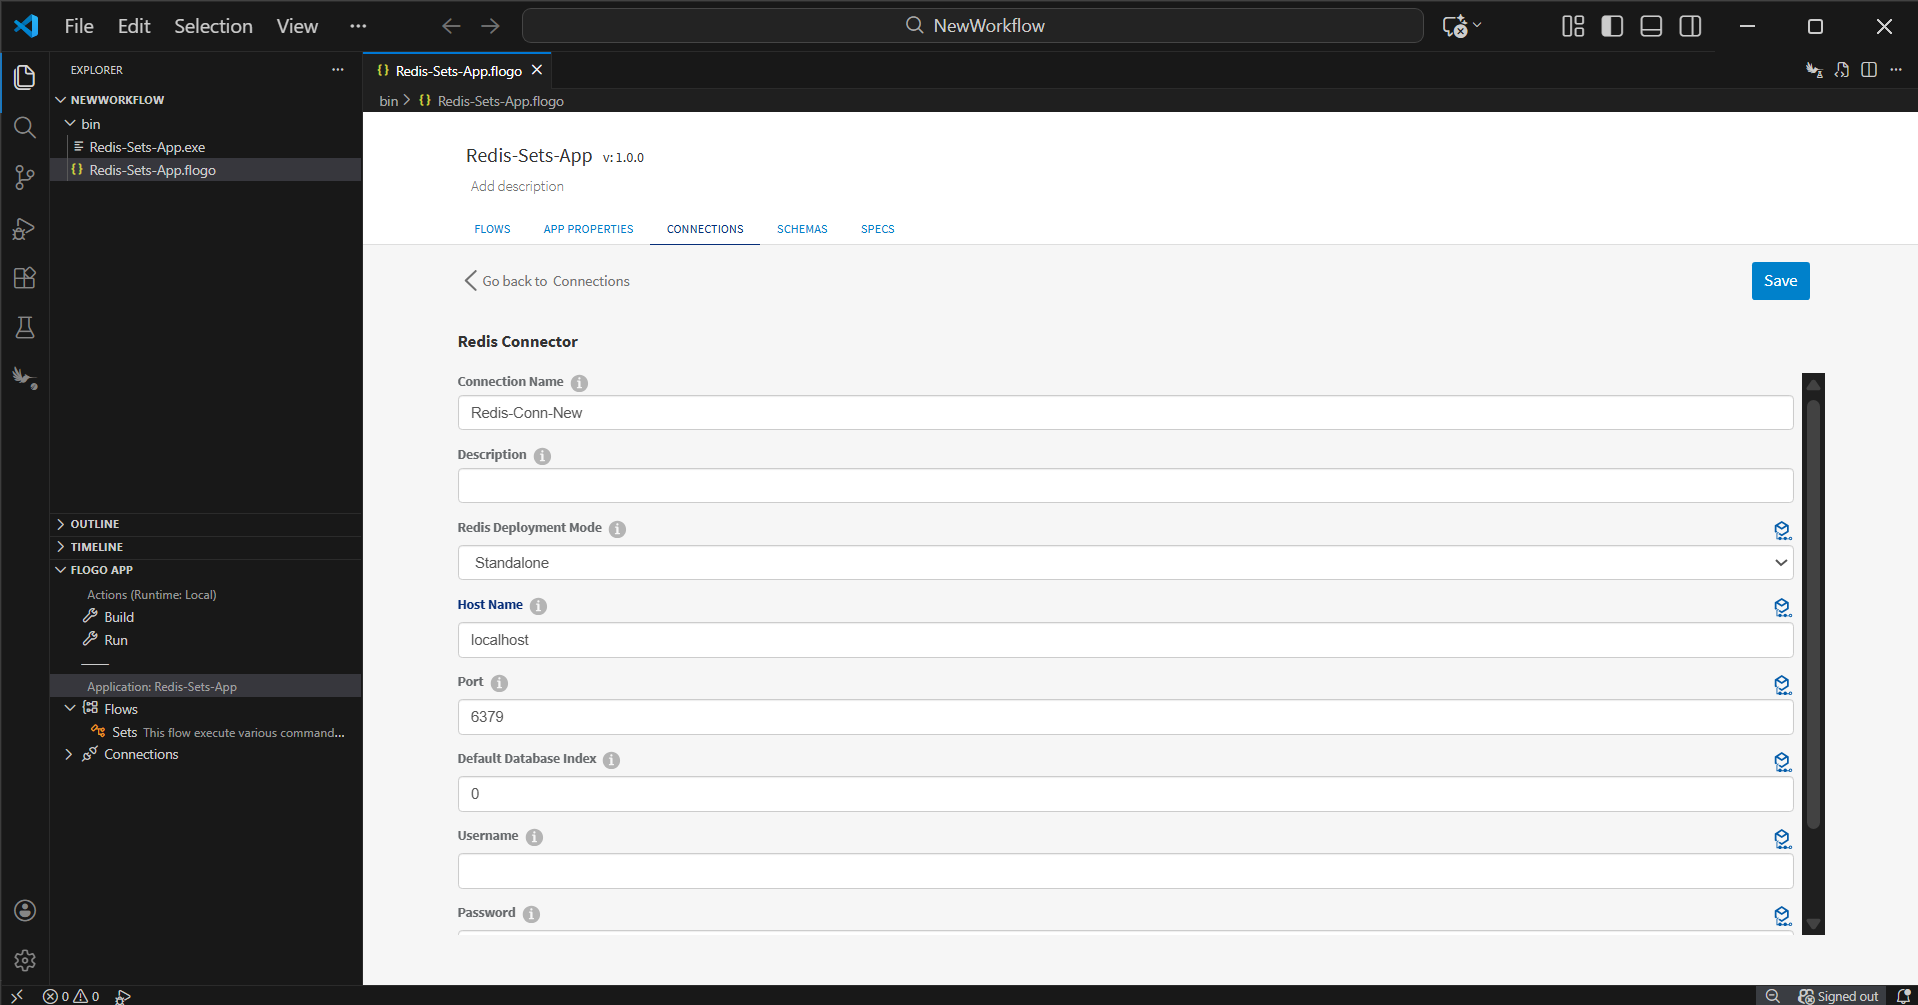
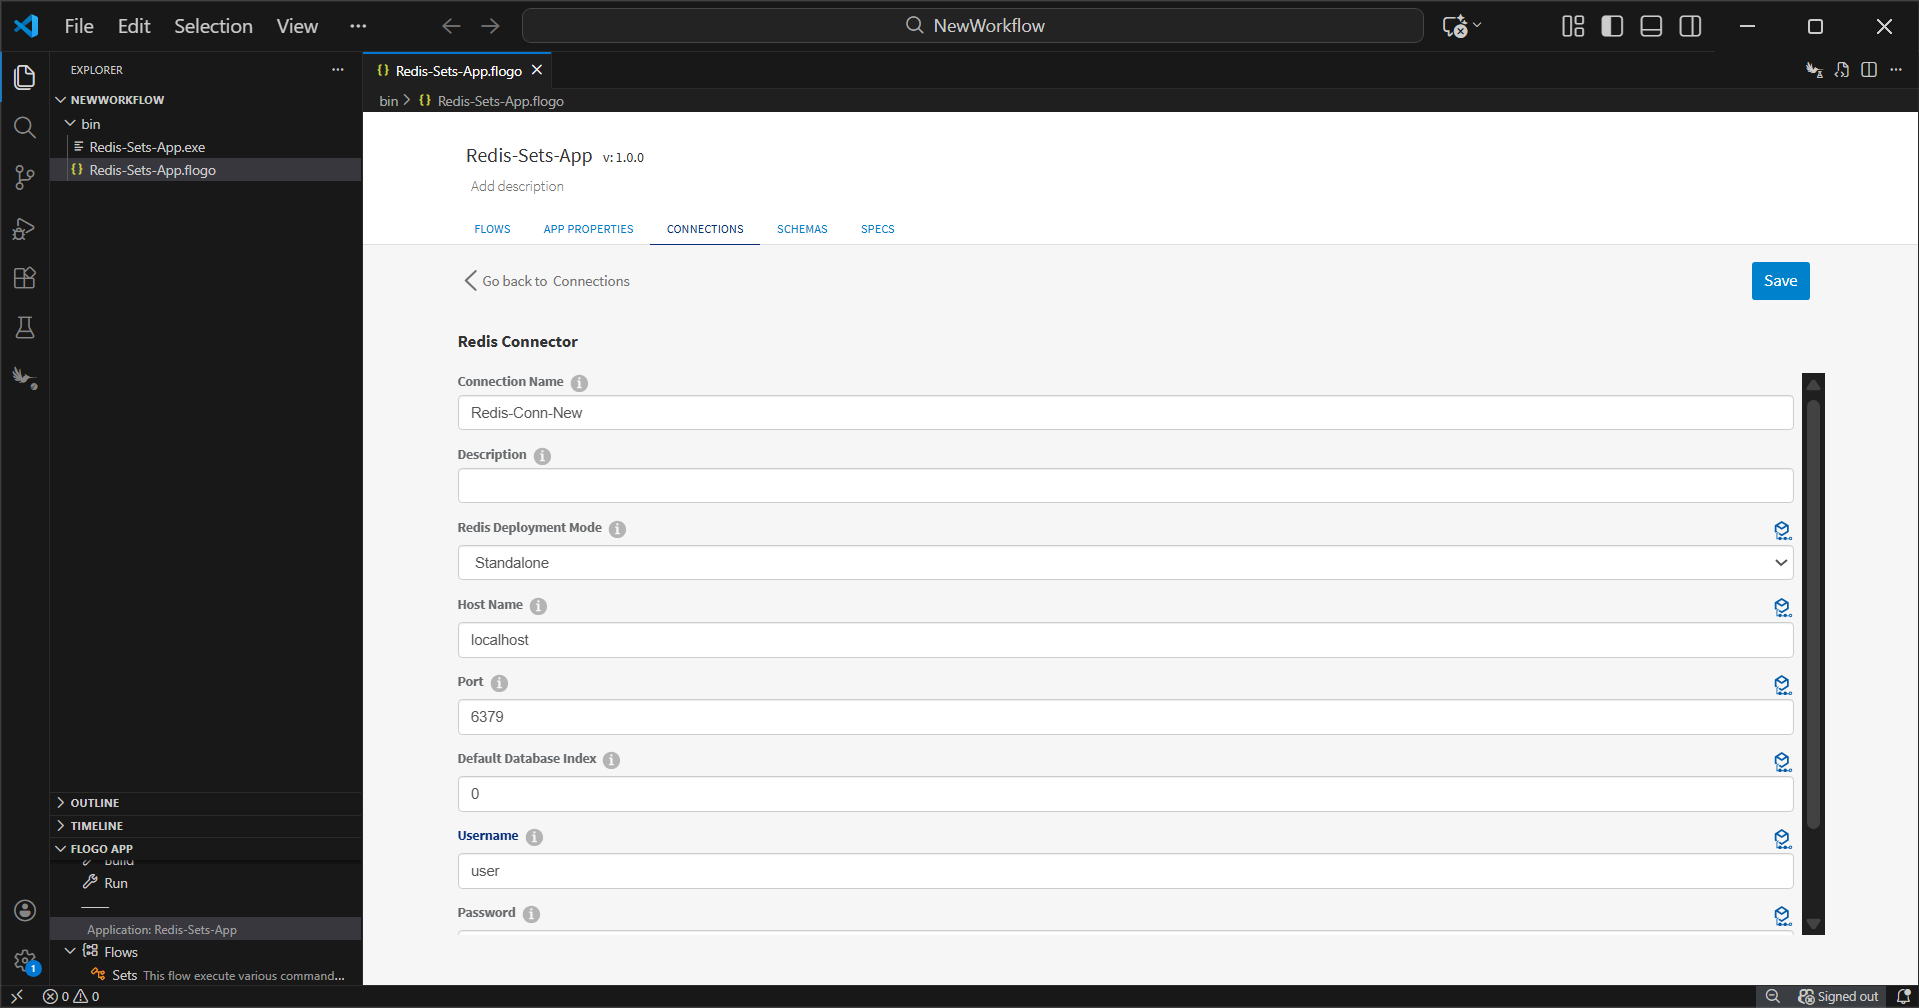
redis changes updated

diff --git a/samples/VSCode_Extension/Connectors/Databases/Redis/readme.md b/samples/VSCode_Extension/Connectors/Databases/Redis/readme.md
@@ -1,4 +1,4 @@
-# Redis Sample on creating SSL connection and performing various commands of Group SETS
+# Redis Sample on creating connection and performing various commands of Group SETS
 
 
 ## Description
@@ -29,7 +29,9 @@ In the connection, note that,
 1. Host - In this field we give public DNS of EC2 instance on which database is hosted.
 2. Port - Port number on which redis server is running.
 3. Default Database Index - It is the default index at which database is stored.
-4. Secure Connection – If Secure connection is true, then it is mandatory to provide the PEM-encoded file of the client certificate and client key for client authentication, and the PEM-encoded file of the CA certificate or server certificate for server authentication.
+4. Username – Used to connect to the Redis database.
+5. Password – Password for authenticating the connection with the Redis server.
+6. Secure Connection – If Secure connection is true, then it is mandatory to provide the PEM-encoded file of the client certificate and client key for client authentication, and the PEM-encoded file of the CA certificate or server certificate for server authentication.
 
 ### The Flow
 
